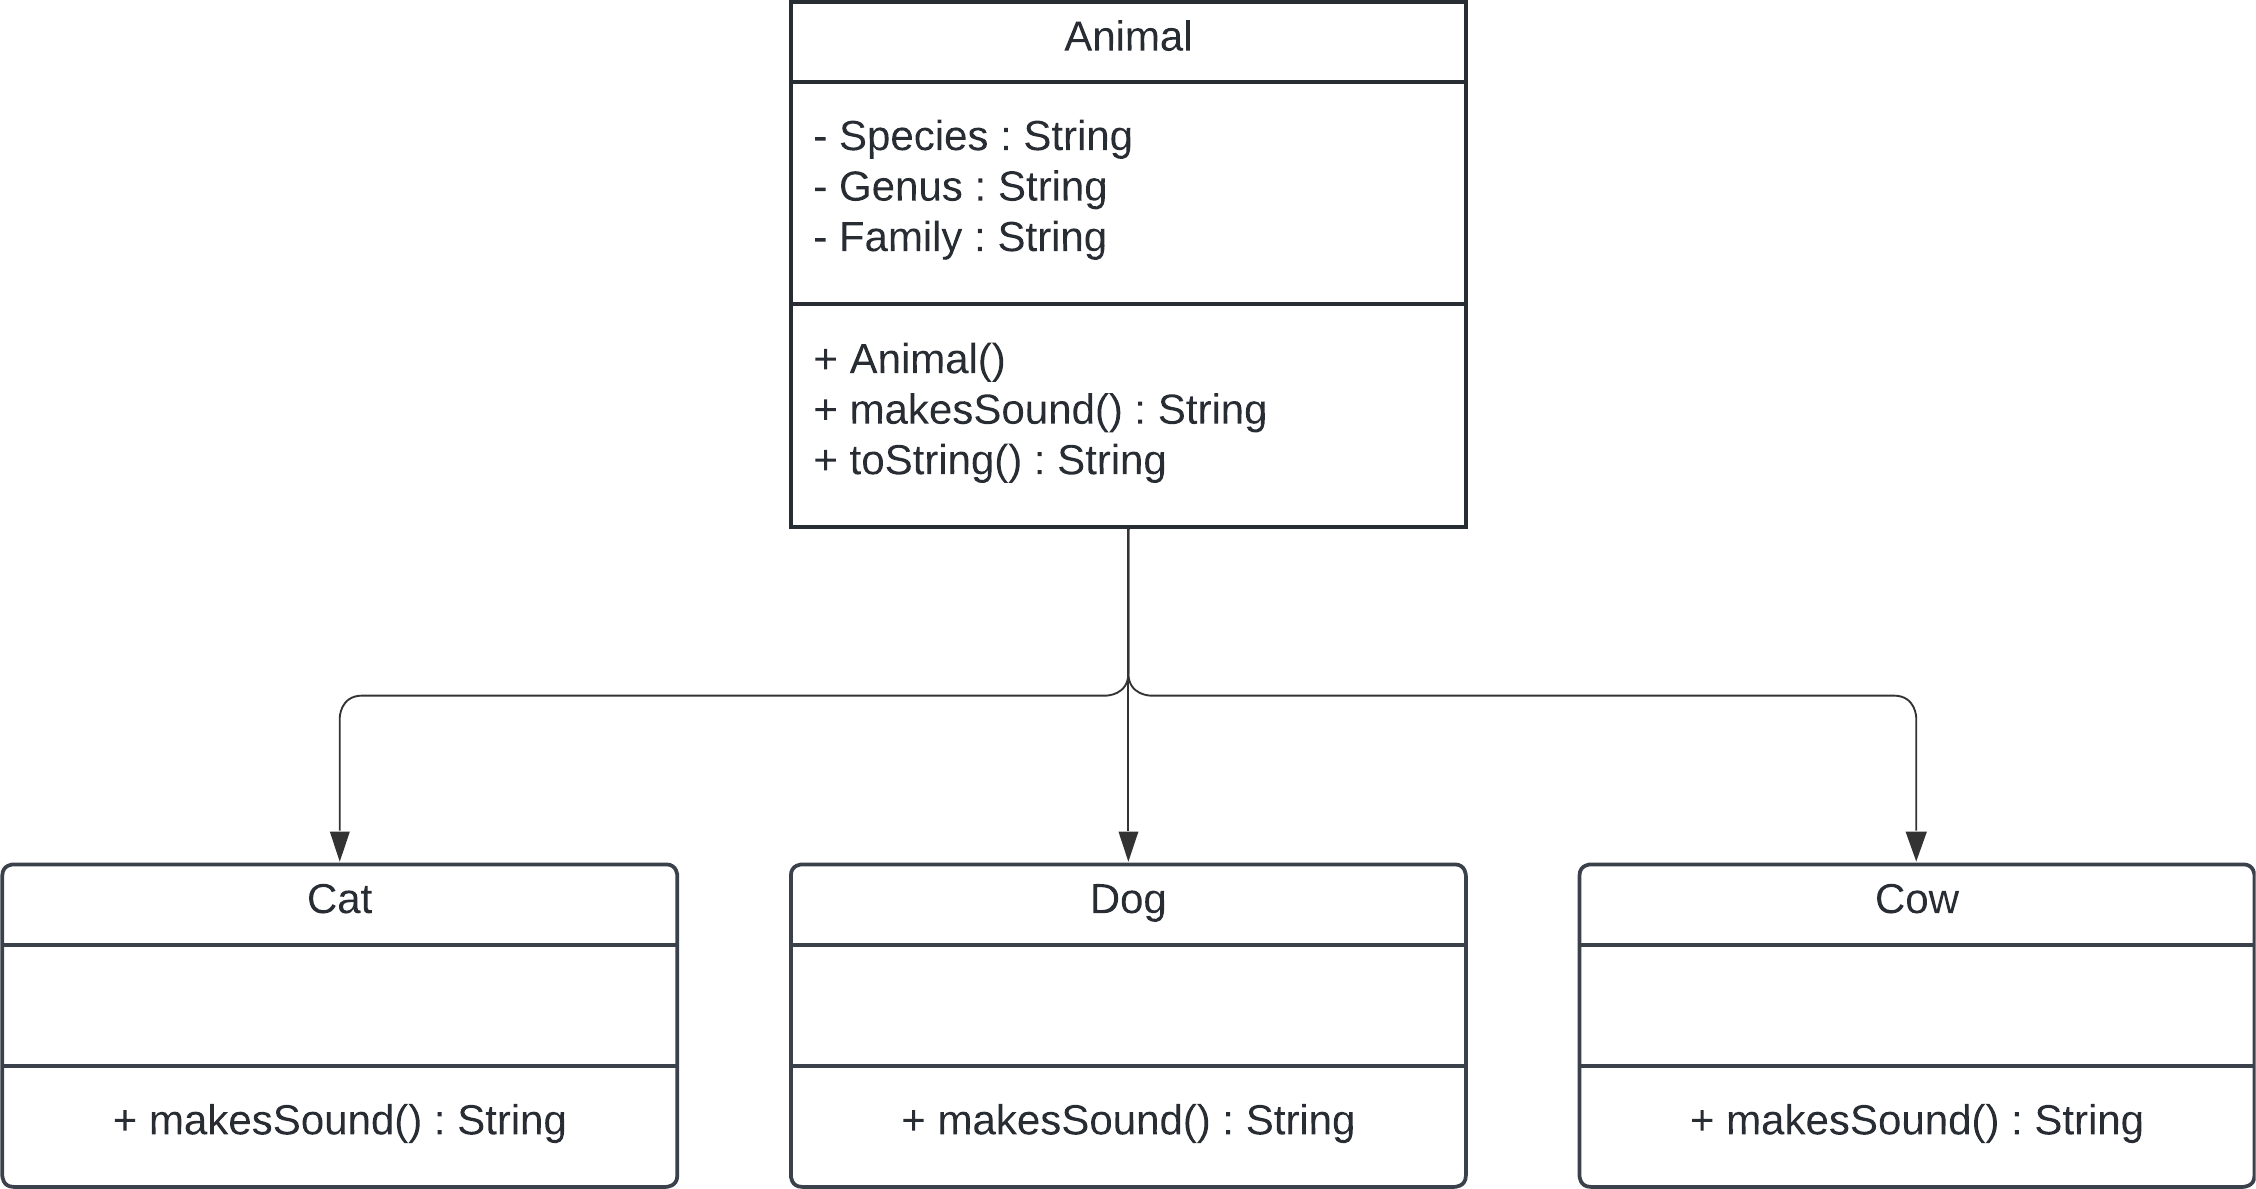
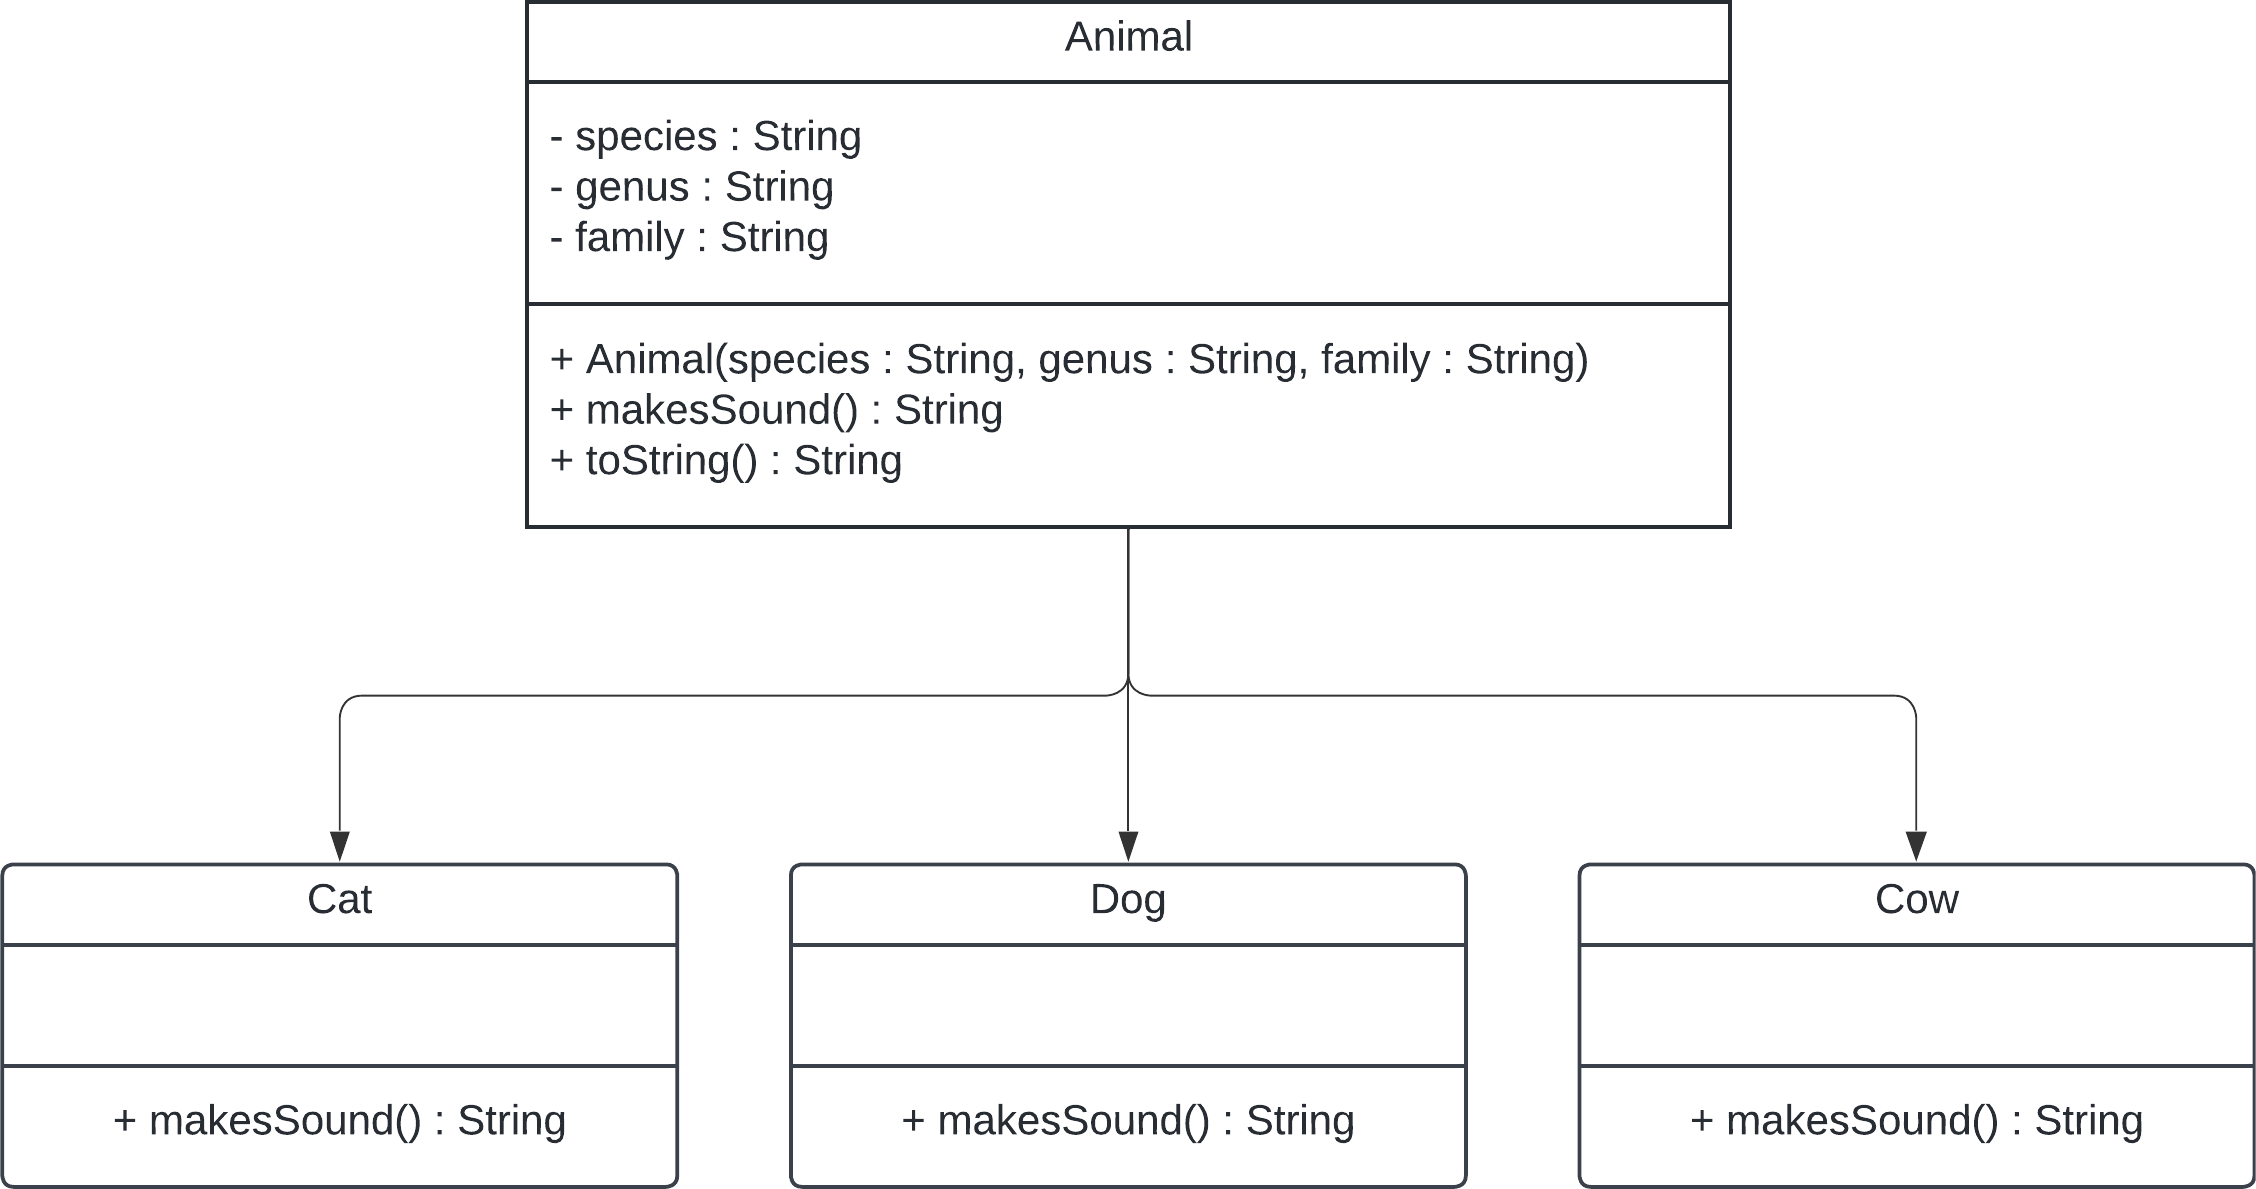
updated UML diagram and added example implementation

diff --git a/docs/slides-04-03.html b/docs/slides-04-03.html
@@ -526,12 +526,88 @@
 <h2>UML diagram example</h2>
 
 <img data-src="images/UML-class-Animal.png" class="r-stretch"></section>
+<section id="implementation-example" class="slide level2">
+<h2>Implementation example</h2>
+<p><code>Animal.java</code></p>
+<div class="sourceCode" id="cb3"><pre class="sourceCode numberSource {java} number-lines code-with-copy"><code class="sourceCode"><span id="cb3-1"><a></a>public class Animal {</span>
+<span id="cb3-2"><a></a>    private String species;</span>
+<span id="cb3-3"><a></a>    private String genus;</span>
+<span id="cb3-4"><a></a>    private String family;</span>
+<span id="cb3-5"><a></a>    </span>
+<span id="cb3-6"><a></a>    public Animal (String s, String g, String f) {</span>
+<span id="cb3-7"><a></a>        species = s;</span>
+<span id="cb3-8"><a></a>        genus = g;</span>
+<span id="cb3-9"><a></a>        family = f;</span>
+<span id="cb3-10"><a></a>    }</span>
+<span id="cb3-11"><a></a>    </span>
+<span id="cb3-12"><a></a>    public String toString() {</span>
+<span id="cb3-13"><a></a>        String message;</span>
+<span id="cb3-14"><a></a>        message = "The " + species;</span>
+<span id="cb3-15"><a></a>        message += " of genus " +  genus;</span>
+<span id="cb3-16"><a></a>        message += " and family " + family;</span>
+<span id="cb3-17"><a></a>        return message;</span>
+<span id="cb3-18"><a></a>    }</span>
+<span id="cb3-19"><a></a></span>
+<span id="cb3-20"><a></a>}</span></code><button title="Copy to Clipboard" class="code-copy-button"><i class="bi"></i></button></pre></div>
+</section>
+<section id="implementation-example-1" class="slide level2">
+<h2>Implementation example</h2>
+<p><code>Cat.java</code></p>
+<div class="sourceCode" id="cb4"><pre class="sourceCode numberSource {java} number-lines code-with-copy"><code class="sourceCode"><span id="cb4-1"><a></a>public class Cat extends Animal {</span>
+<span id="cb4-2"><a></a>    public Cat() {</span>
+<span id="cb4-3"><a></a>        super("Cat", "Felis", "Felidae");</span>
+<span id="cb4-4"><a></a>    }</span>
+<span id="cb4-5"><a></a>    </span>
+<span id="cb4-6"><a></a>    public String makesSound() {</span>
+<span id="cb4-7"><a></a>        return "meow";</span>
+<span id="cb4-8"><a></a>    }</span>
+<span id="cb4-9"><a></a></span>
+<span id="cb4-10"><a></a>}</span></code><button title="Copy to Clipboard" class="code-copy-button"><i class="bi"></i></button></pre></div>
+</section>
+<section id="implementation-example-2" class="slide level2">
+<h2>Implementation example</h2>
+<div class="sourceCode" id="cb5"><pre class="sourceCode numberSource {java} number-lines code-with-copy"><code class="sourceCode"><span id="cb5-1"><a></a>public class GetAnimals {</span>
+<span id="cb5-2"><a></a></span>
+<span id="cb5-3"><a></a>    public static void main(String[] args) {</span>
+<span id="cb5-4"><a></a>        Cat garfield = new Cat();</span>
+<span id="cb5-5"><a></a>        System.out.println(garfield.toString());</span>
+<span id="cb5-6"><a></a>    }</span>
+<span id="cb5-7"><a></a></span>
+<span id="cb5-8"><a></a>}</span></code><button title="Copy to Clipboard" class="code-copy-button"><i class="bi"></i></button></pre></div>
+</section>
 <section id="abstract-superclass" class="slide level2">
 <h2><code>abstract</code> superclass</h2>
 <p>An abstract class cannot be instantiated (an error is thrown)</p>
-<div class="sourceCode" id="cb3"><pre class="sourceCode numberSource {java} number-lines code-with-copy"><code class="sourceCode"><span id="cb3-1"><a></a>Animal animal = new Animal(); // Error: Animal is abstract</span></code><button title="Copy to Clipboard" class="code-copy-button"><i class="bi"></i></button></pre></div>
+<div class="sourceCode" id="cb6"><pre class="sourceCode numberSource {java} number-lines code-with-copy"><code class="sourceCode"><span id="cb6-1"><a></a>Animal animal = new Animal(); // Error: Animal is abstract</span></code><button title="Copy to Clipboard" class="code-copy-button"><i class="bi"></i></button></pre></div>
 <p>An abstract class must be subclassed</p>
 <p>Methods in an abstract class can also be <code>abstract</code> – similar to an interface</p>
+</section>
+<section id="abstract-example-implementation" class="slide level2">
+<h2><code>abstract</code> example implementation</h2>
+<div class="sourceCode" id="cb7"><pre class="sourceCode numberSource {java} number-lines code-with-copy"><code class="sourceCode"><span id="cb7-1"><a></a>public abstract class Animal {</span>
+<span id="cb7-2"><a></a>    private String species;</span>
+<span id="cb7-3"><a></a>    private String genus;</span>
+<span id="cb7-4"><a></a>    private String family;</span>
+<span id="cb7-5"><a></a>    </span>
+<span id="cb7-6"><a></a>    public Animal (String s, String g, String f) {</span>
+<span id="cb7-7"><a></a>        species = s;</span>
+<span id="cb7-8"><a></a>        genus = g;</span>
+<span id="cb7-9"><a></a>        family = f;</span>
+<span id="cb7-10"><a></a>    }</span>
+<span id="cb7-11"><a></a>    </span>
+<span id="cb7-12"><a></a>    public abstract String makesSound();</span>
+<span id="cb7-13"><a></a>    </span>
+<span id="cb7-14"><a></a>    public String toString() {</span>
+<span id="cb7-15"><a></a>        String message;</span>
+<span id="cb7-16"><a></a>        message = "The " + species;</span>
+<span id="cb7-17"><a></a>        message += " of genus " +  genus;</span>
+<span id="cb7-18"><a></a>        message += " and family " + family;</span>
+<span id="cb7-19"><a></a>        message += " makes this sound: ";</span>
+<span id="cb7-20"><a></a>        message += makesSound();</span>
+<span id="cb7-21"><a></a>        return message;</span>
+<span id="cb7-22"><a></a>    }</span>
+<span id="cb7-23"><a></a></span>
+<span id="cb7-24"><a></a>}</span></code><button title="Copy to Clipboard" class="code-copy-button"><i class="bi"></i></button></pre></div>
 
 <div class="quarto-auto-generated-content">
 <div class="footer footer-default">
